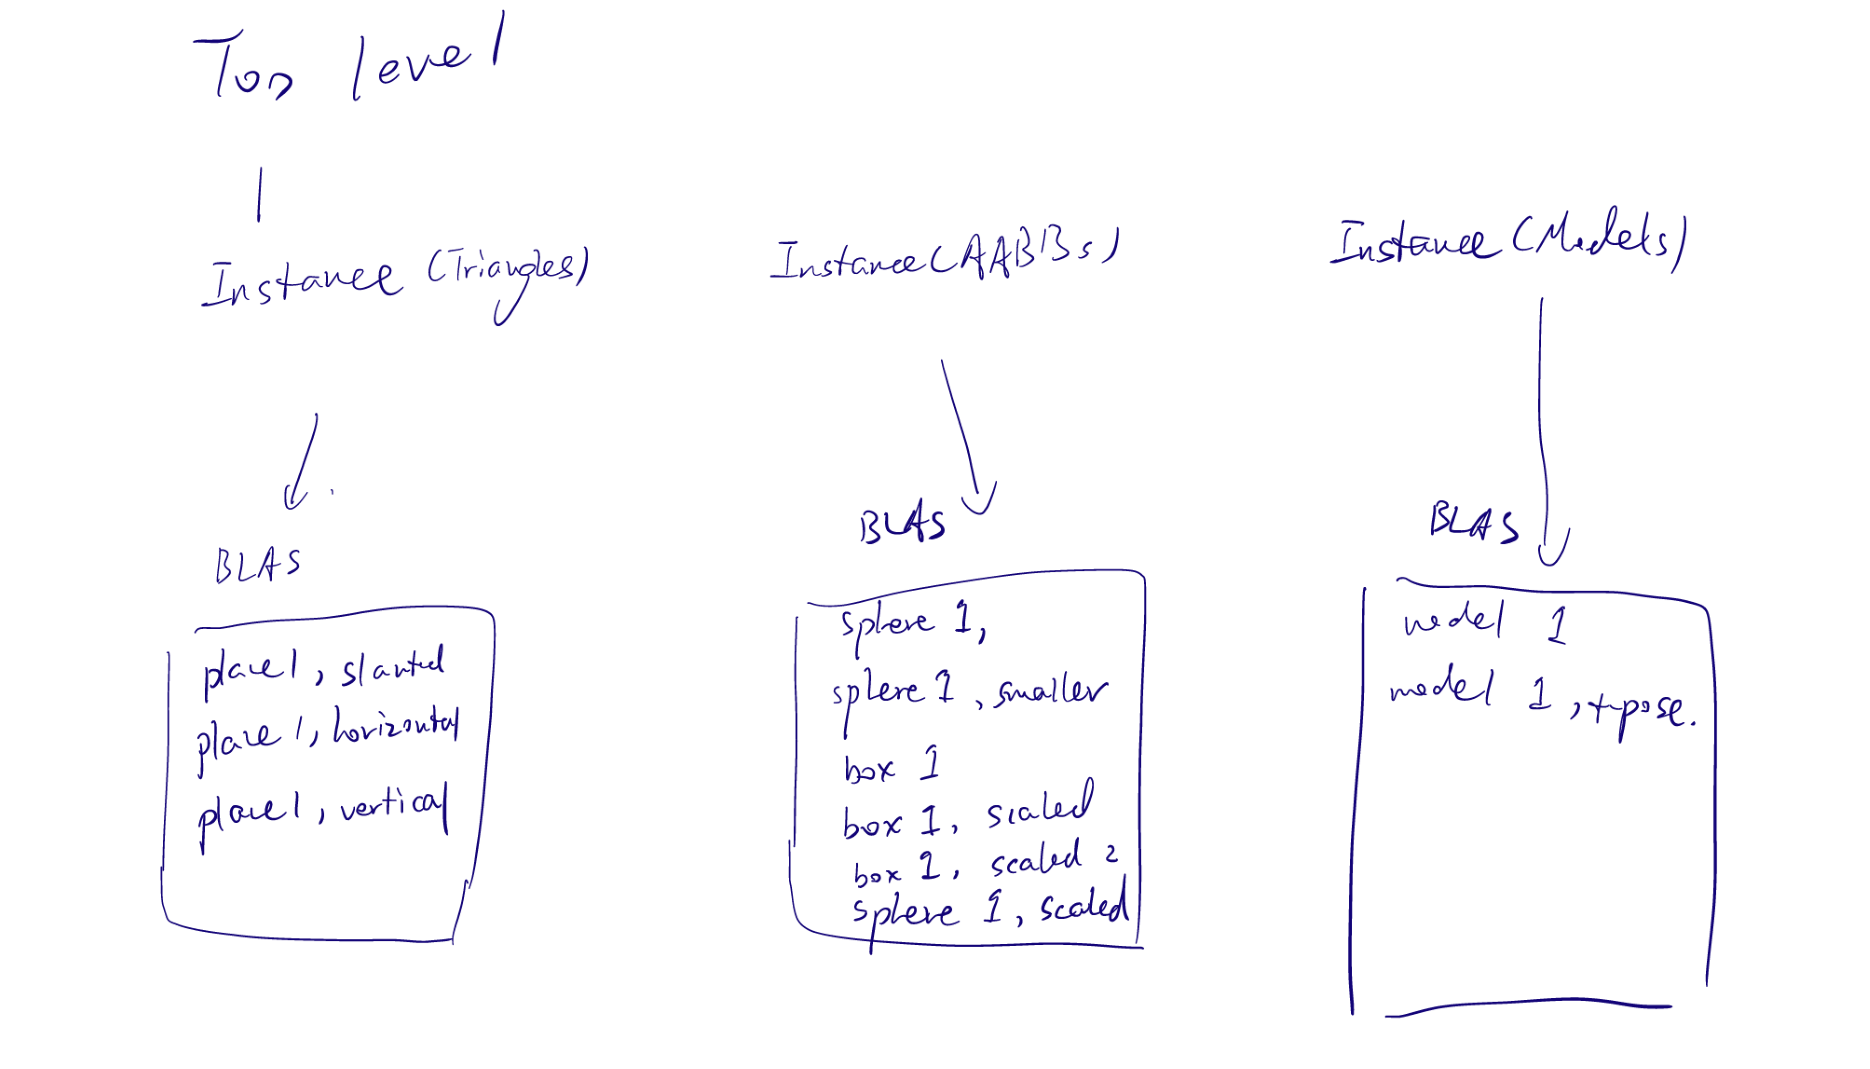
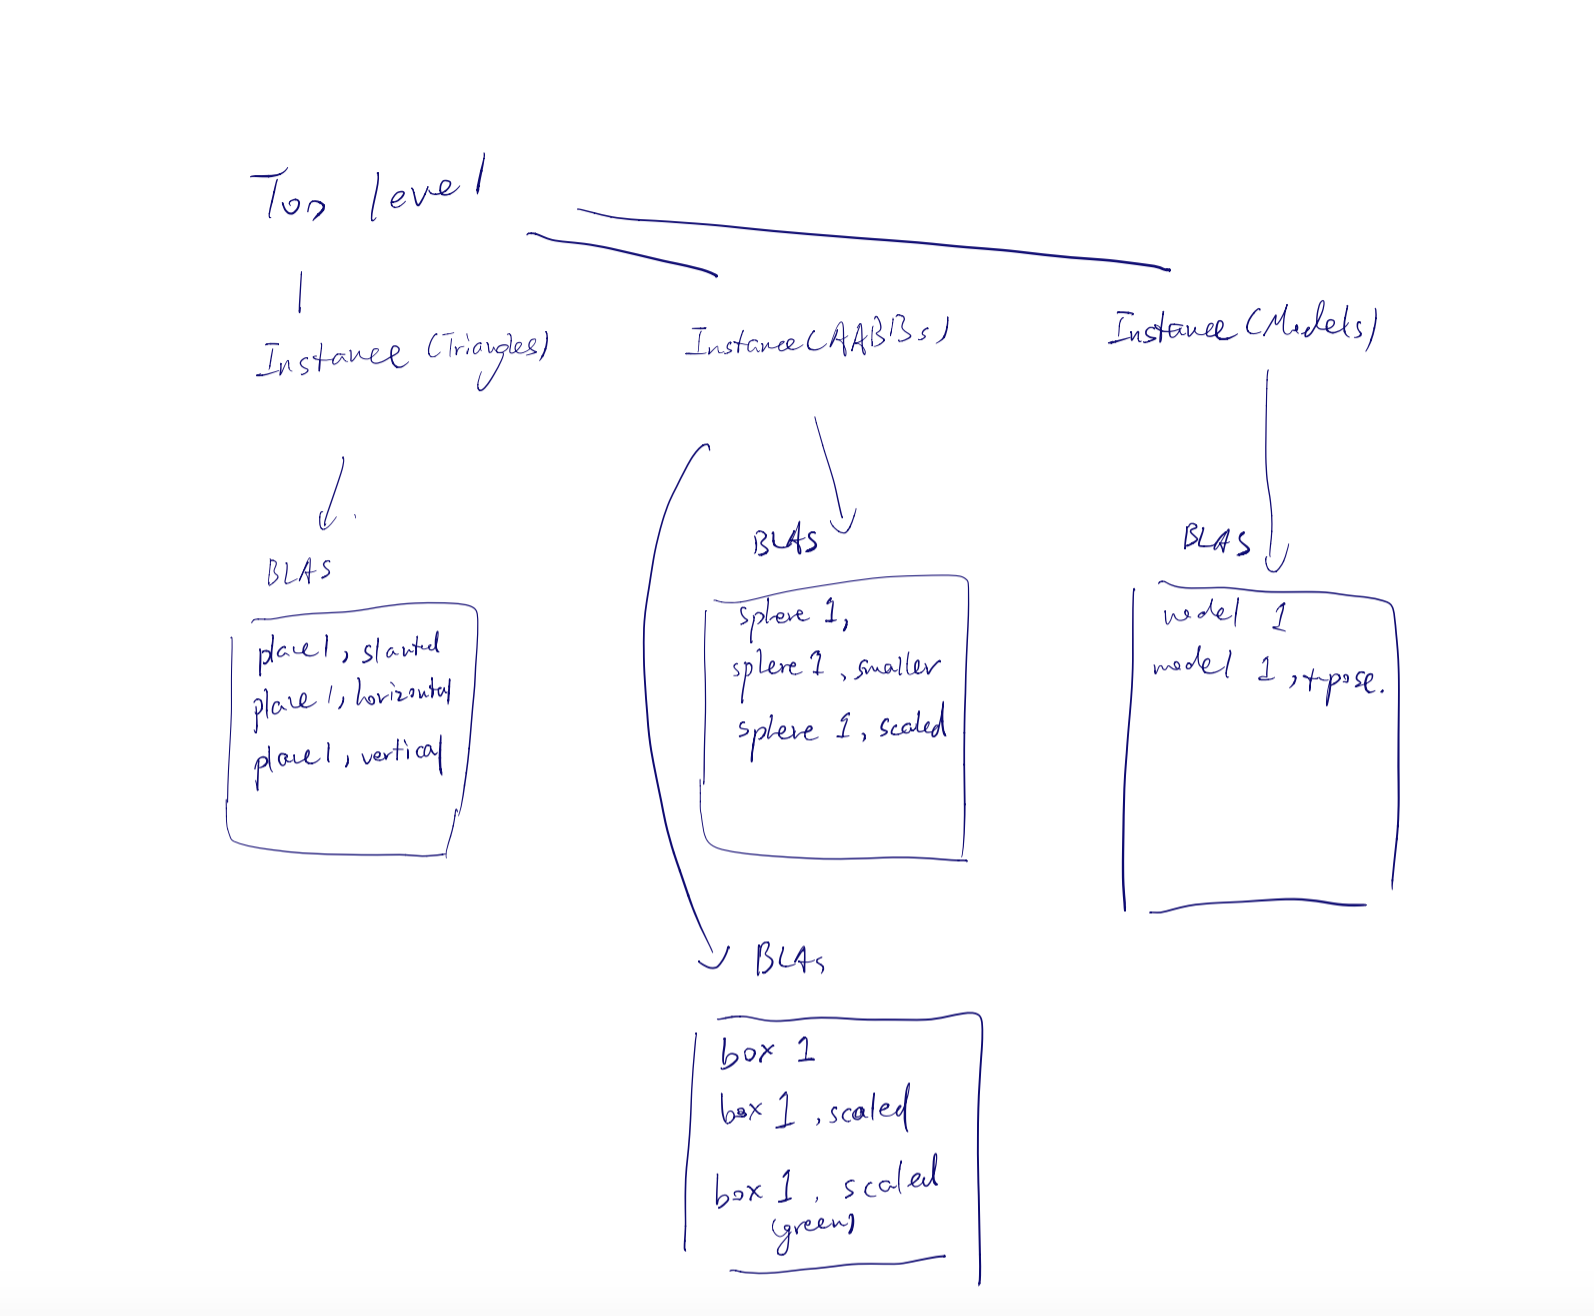
cq submit

diff --git a/README.md b/README.md
@@ -19,12 +19,9 @@ Project 5 - DirectX Procedural Raytracing**
 
 2. Each procedural geometry can be defined using 3 things: the `Axis-Aligned Bounding Box` (AABB) (e.g. bottom left corner at (-1,-1,-1) and top right corner at (1,1,1)) that surrounds it, the `Type` (e.g. Sphere) of the procedural geometry contained within the AABB, and an `Equation` describing the procedural geometry (e.g. Sphere: `(x - center)^2 = r^2`). **Using these 3 constructs, conceptually explain how one could go about rendering the procedural geometry**. To be specific, consider how to proceed when a ray enters the AABB of the procedural geometry.
 
-   Answer: For rendering the procedural geometry, we need to shoot ray from camera to the scene and let ray intersect with the geometry. First of all, as procedural geometries are normally bounded by a AABB box, we need to determine whether rays intersect with AABB box first. If not, then the ray must not hit the geometry. If the ray hit the AABB box, we keep going through the smaller bounding boxes within the parent AABB box until we hit a leaf level bounding box. When the ray hits a leaf level bounding box, it means that it has high possibility to hit the geometry. We then use the equation, which describes the shape of the geometry, and the ray equation to compute the closest point in the ray to the geometry. If the closest point of intersection is larger than 0, it means the intersection is outside the geometry while the closest point of intersection is smaller or equal to 0, it means the intersection is inside or on the geometry. 
-
+   Answer: For rendering the procedural geometry, we need to shoot ray from camera to the scene and let ray intersect with the geometry. First of all, as procedural geometries are normally bounded by a AABB box, we need to determine whether rays intersect with AABB box first. If not, then the ray must not hit the geometry. If the ray hit the AABB box, we keep going through the smaller bounding boxes within the parent AABB box until we hit a leaf level bounding box. When the ray hits a leaf level bounding box, it means that it has high possibility to hit the geometry. We then compute the start point of the intersection with AABB and the end point of the AABB, note down the t values. We split the t values into several pieces, and then use the equation, which describes the shape of the geometry, and the ray equation to compute whether the point on ray is actually in, on or outside the geometry. As the procedural geometry might have several equations to define the whole shape. We calculate the value of all those equations and sum them up. If the final result is larger than the render threshold we define for the shape. The ray hits the geometry and we will render it. Otherwise, the ray doesn't hit the geometry.
 3. **Draw a diagram of the DXR Top-Level/Bottom-Level Acceleration Structures** of the following scene. Refer to section 2.6 below for an explanation of DXR Acceleration Structures. We require that you limit your answer to 1 TLAS. You may use multiple BLASes, but you must define the Geometry contained within each BLAS.
 
    Answer: Here is the acceleration structures I think of the scene
 
    ![](images/cq/cq_3.PNG)
-
-   I am not sure whether models should be counted as the triangles BLAS, as the mesh is composed by triangles but far more complex than the plane.
